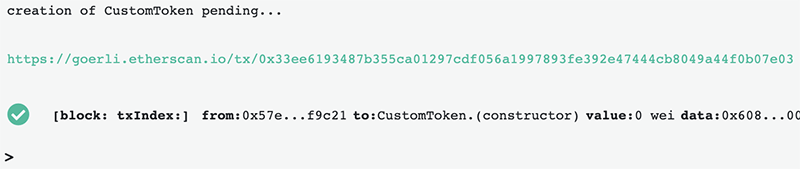
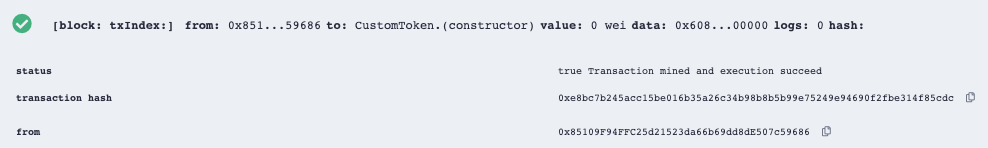
Update CustomToken tutorial

diff --git a/docs/custom-setups/custom_token.rst b/docs/custom-setups/custom_token.rst
@@ -4,7 +4,7 @@ Use Custom Token
 Introduction
 ============
 
-In this guide, we will walk through the process of creating a custom token. 
+In this guide, we will walk through the process of creating a custom token.
 A custom token can be used for any use-case but we will be adding and using it with the Raiden Network.
 In order to deploy the Custom Token, you will need to:
 
@@ -18,20 +18,22 @@ In order to deploy the Custom Token, you will need to:
 Get Goerli Testnet ETH (GÖETH)
 ==============================
 
-Goerli is the name of the testnet on Ethereum where we will be deploying our token. 
+Goerli is the name of the testnet on Ethereum where we will be deploying our token.
 To pay for the on-chain transactions you'll first need to get some Goerli ETH (GÖETH) on your Ethereum account.
 
 Since we will be using the Goerli testnet you'll have to switch from **"Main Ethereum Network"** to **"Goerli Test Network"** in your MetaMask by selecting it from the top right dropdown.
 
-After switching to the Goerli testnet you can go ahead and acquire some Goerli testnet ETH by following these steps:
+After switching to the Goerli testnet you can go ahead and acquire some Goerli testnet ETH.
+One option to do so is to follow these steps:
 
-1. Copy your address. It is located on the left hand side in MetaMask and starts with "0x".
-2. Visit the `Goerli faucet <https://goerli-faucet.slock.it/>`_, there you'll have to paste the address into the input field and check the *"I'm not a robot"*  checkbox.
-3. Click on **"REQUEST 0.05 GÖETH"**.
+1) Visit `app.mycrypto.com <https://app.mycrypto.com>`_
+2) When asked how to access your assets, choose MetaMask and connect your account
+3) On the Dashboard, go to **Tools -> Use Testnet Faucet**
+4) Choose your account from the list and **Request Access**
 
-You will see a success message when the request has gone through. If it fails, keep trying until it succeeds.
+You will see a success message showing the corresponding transaction on the Goerli testnet.
 
-You can verify that 0.05 GÖETH was actually received by opening MetaMask and see if your Goerli Test Network shows a balance of total 0.05 GÖETH.
+You can verify that 0.01 GÖETH was actually received by opening MetaMask and see if your Goerli Test Network shows a balance of total 0.01 GÖETH.
 
 
 .. _custom_token_import:
@@ -41,7 +43,7 @@ Import Custom Token
 
 The Raiden Network supports transactions of ERC20 compliant tokens. Any smart contract that implements the ERC20 interface can be used with Raiden.
 
-Importing the custom token Solidity code is done via the `Remix Ethereum IDE <https://remix.ethereum.org/>`_ (Ethereum's integrated development environment). 
+Importing the custom token Solidity code is done via the `Remix Ethereum IDE <https://remix.ethereum.org/>`_ (Ethereum's integrated development environment).
 You can read more about ERC20 tokens in `this GitHub repo <https://github.com/OpenZeppelin/openzeppelin-contracts/tree/master/contracts/token/ERC20>`_.
 
 .. image:: remix_gist_import.png
@@ -95,14 +97,14 @@ Navigate to **"DEPLOY & RUN TRANSACTIONS"** in the left hand side menu.
    -  **token_name = MyToken**
    -  **token_symbol = TKN**
 
-5. Click the orange **"transact"** button.
+5. Click the **"transact"** button.
 6. Confirm the transaction from MetaMask when prompted.
 
-In the Remix Ethereum IDE terminal you should now see an output similar to the picture below. 
+In the Remix Ethereum IDE terminal you should now see an output similar to the picture below.
 Congratulations, you have now successfully deployed a token to Ethereum!
 
 .. image:: remix_deploy3.png
 
-You can click the link in the terminal output that starts with "https://goerli.etherscan.io..." to open a new tab with all the details of the transaction you just sent.
+You can copy the transaction-hash and insert it in the seach-bar at "https://goerli.etherscan.io" to inspect all details of the transaction you just sent.
 
 All you need to do to start using your token is to :doc:`download and install Raiden <../overview_and_guide>` and register your token in Raiden, either in the :ref:`Web Interface <webui_register_token>` or by using the :ref:`API <api_tut_register_token>`.
